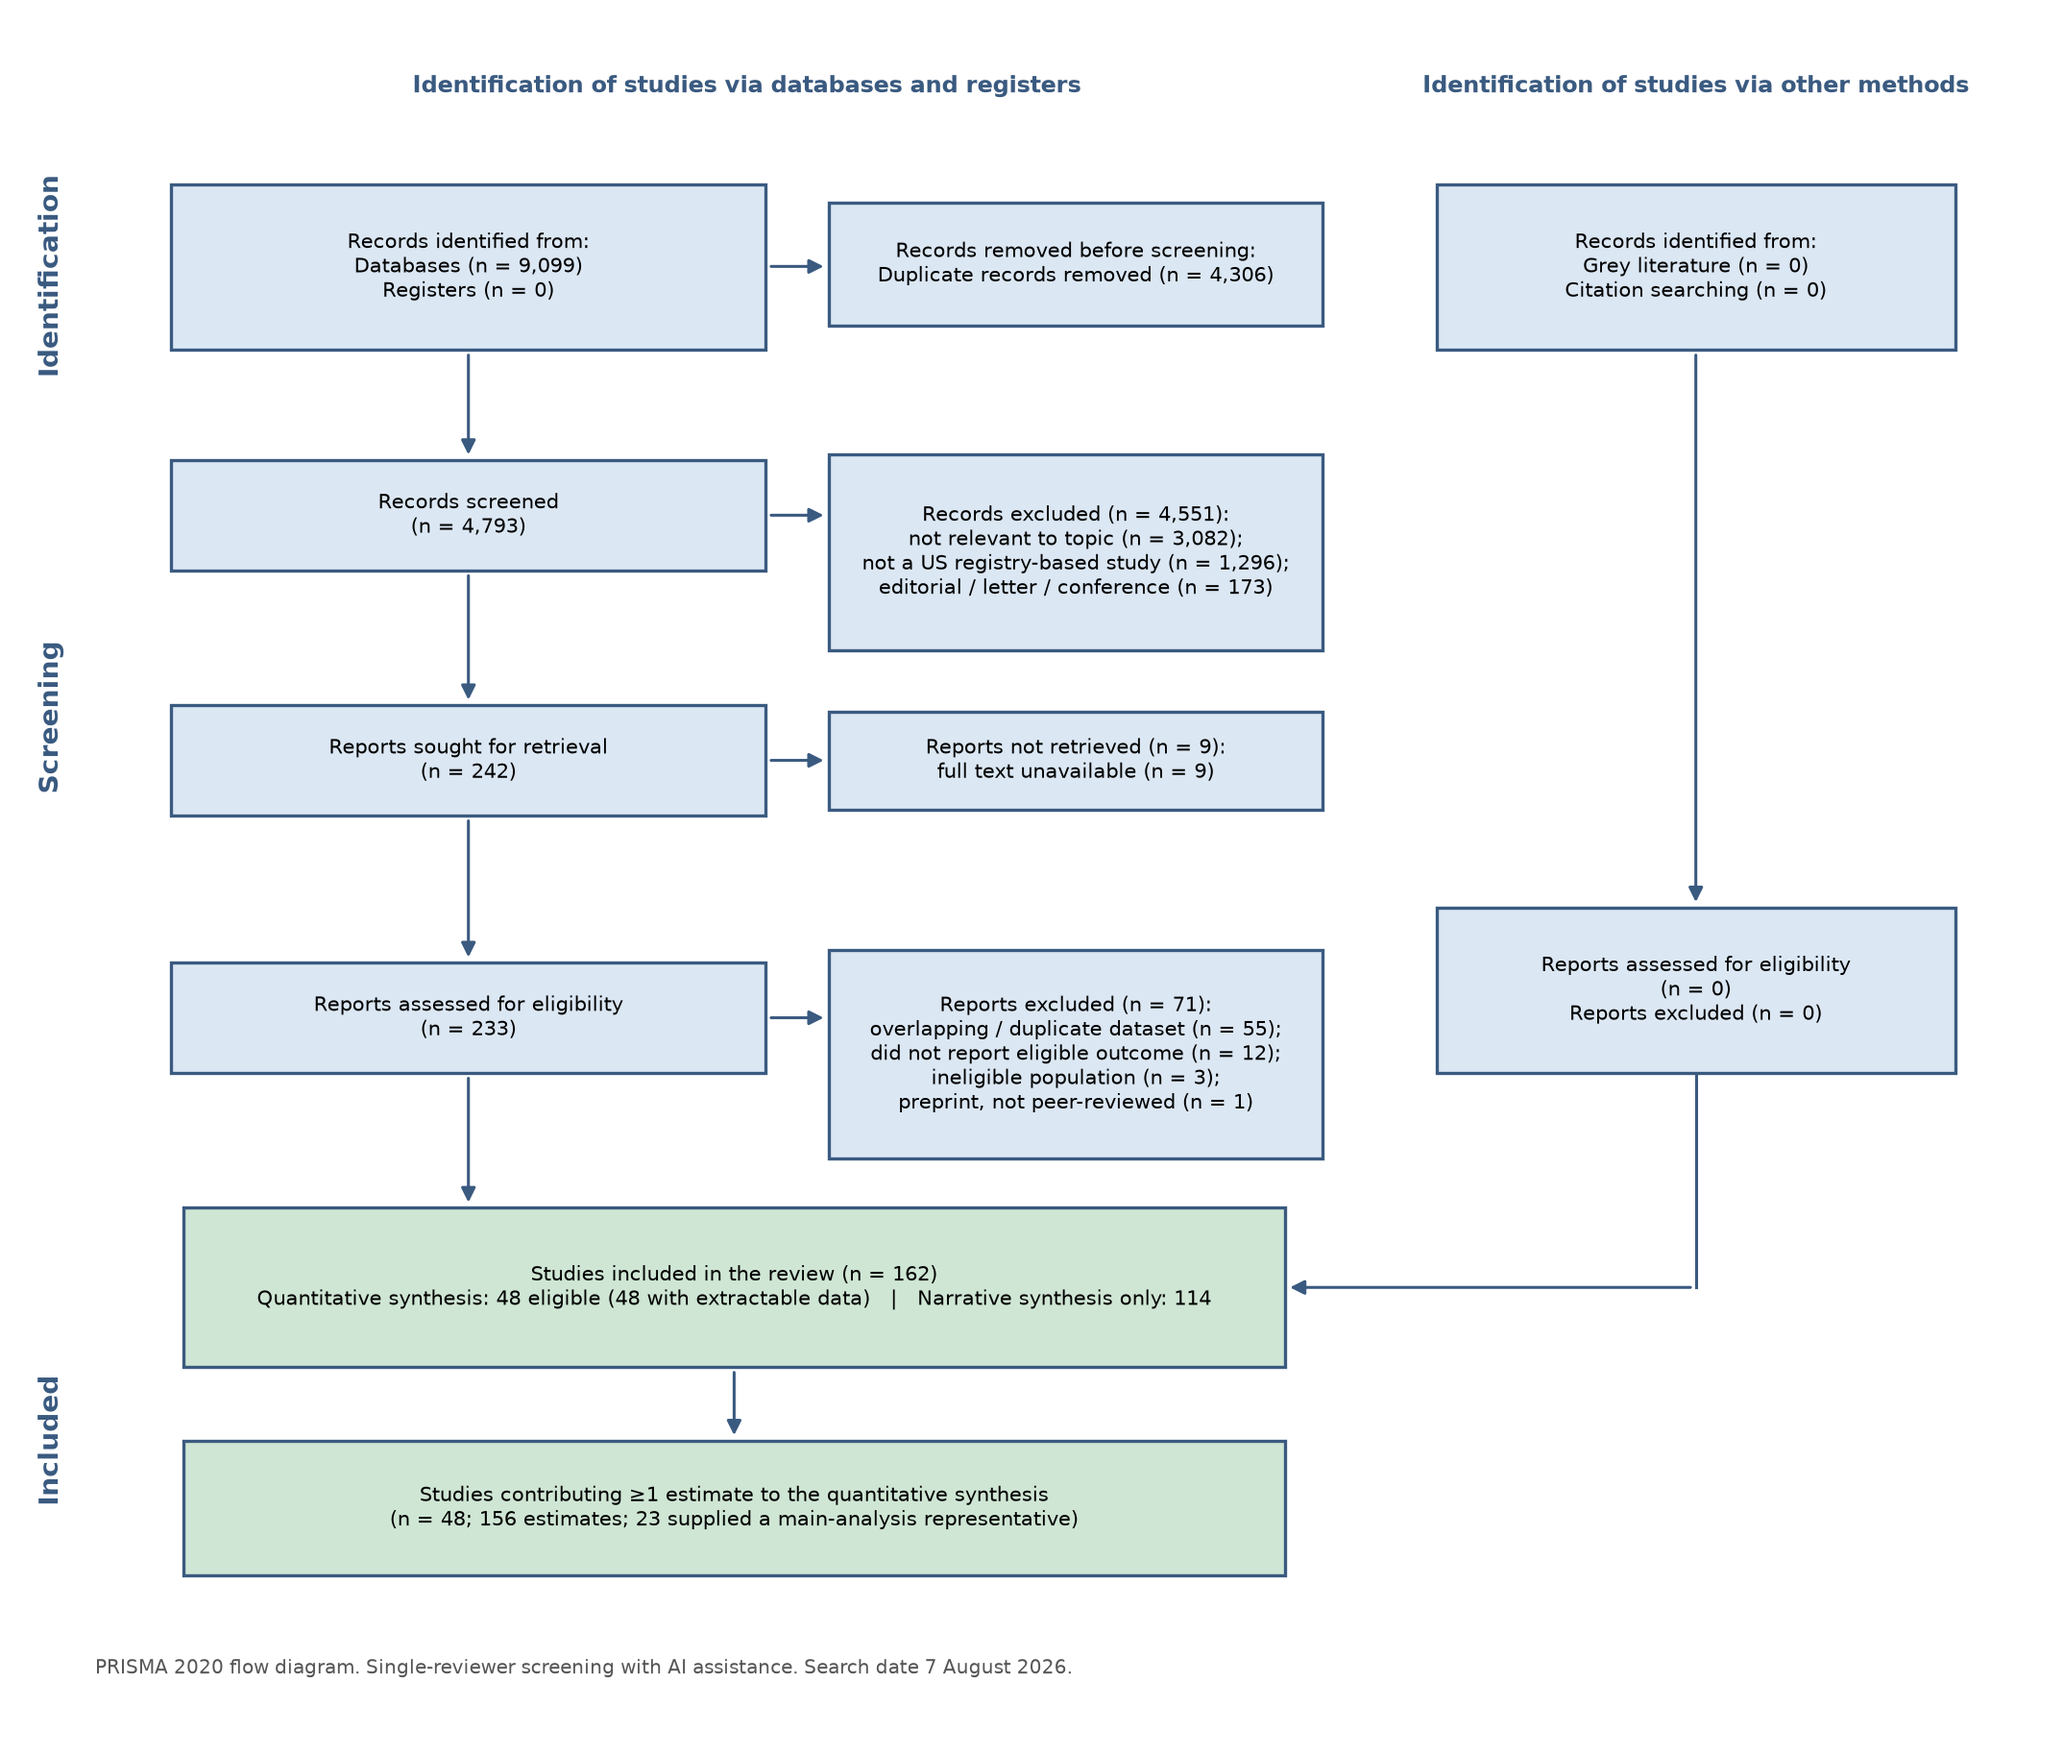
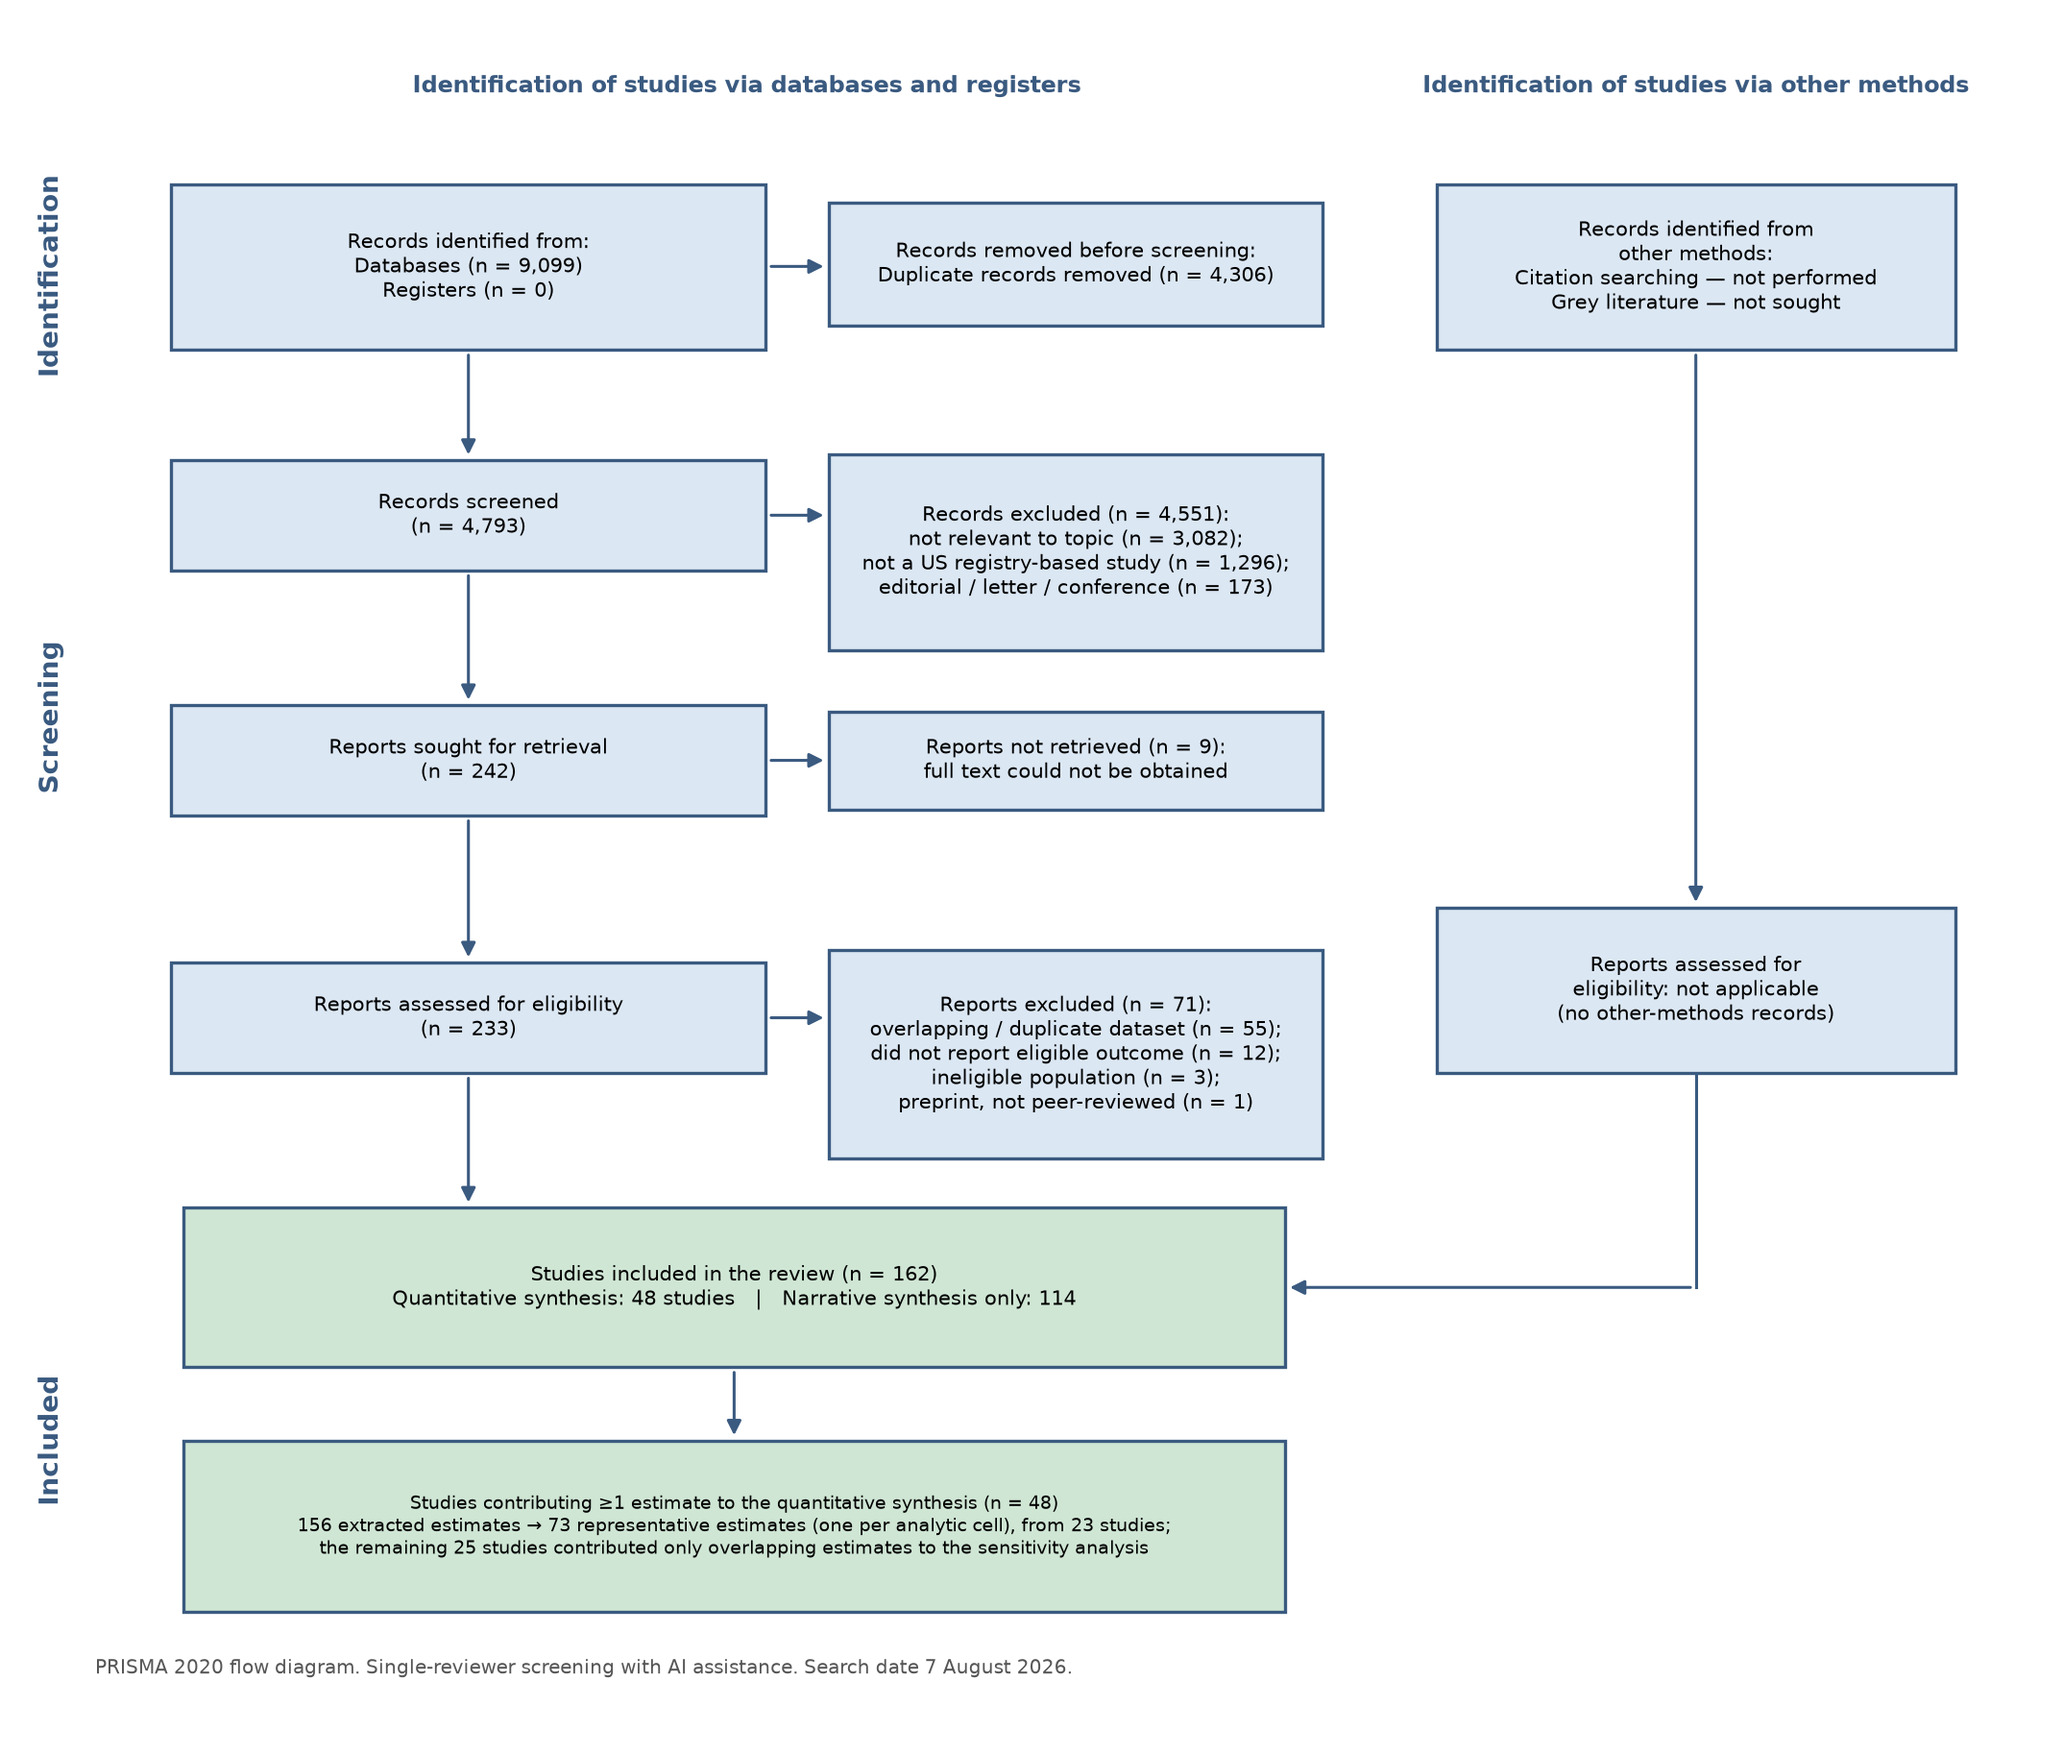
Fix PRISMA flow figure: remove count duplications, clarify representative counts
- Reports not retrieved: drop the duplicated (n = 9) reason line; state
  the reason (full text could not be obtained) without a repeated count.
- Other-methods arm: mark citation searching and grey literature as
  not performed / not sought rather than n = 0, which reads as a search
  that returned zero rather than a method not used.
- Included box: drop the redundant '48 with extractable data' (identical
  to the 48 eligible count).
- Bottom box: show the analytic chain explicitly — 156 extracted
  estimates -> 73 representative estimates (one per analytic cell) from
  23 studies, and name the remaining 25 studies as contributing only
  overlapping estimates to the sensitivity analysis.
- crosscheck_master: update the PRISMA regexes to the new wording and add
  a sens_only canonical count so the 73 and 25 in the figure are verified
  against the data.
- PRISMA_COUNTS.md: mirror the same wording.

Claude-Session: https://claude.ai/code/session_01CuLT4FKRBtsU22Vwfjj2qn

diff --git a/meta_agents/search_v2/crosscheck_master.py b/meta_agents/search_v2/crosscheck_master.py
@@ -246,6 +246,7 @@ def canonical_counts():
                 if r["main_analysis"].startswith("yes")]
     cells = len(rep_rows)
     reps = len(set(r["record_id"] for r in rep_rows))
+    sens_only = studies - reps          # quant studies with no cell representative
     # Risk of bias: JBI overall ratings on the extracted studies
     rob = {"Low": 0, "Moderate": 0, "High": 0}
     if os.path.exists(ROB):
@@ -255,7 +256,7 @@ def canonical_counts():
             "excluded": excluded, "not_retrieved": not_retrieved,
             "excluded_elig": excluded_elig, "assessed": assessed,
             "studies": studies, "estimates": estimates,
-            "cells": cells, "reps": reps,
+            "cells": cells, "reps": reps, "sens_only": sens_only,
             "rob_low": rob["Low"], "rob_moderate": rob["Moderate"],
             "rob_total": rob["Low"] + rob["Moderate"] + rob["High"]}
 
@@ -271,14 +272,16 @@ def check_E():
     # (this is exactly the gap that let "144 estimates / 28 representatives" go stale).
     here_probes = [
         ("prisma_flow.py", r"Studies included in the review \(n = (\d+)\)", "included"),
-        ("prisma_flow.py", r"(\d+) eligible \(\d+ with extractable", "quant"),
-        ("prisma_flow.py", r"\d+ eligible \((\d+) with extractable", "studies"),
+        ("prisma_flow.py", r"Quantitative synthesis: (\d+) studies", "quant"),
+        ("prisma_flow.py", r"quantitative synthesis \(n = (\d+)\)", "studies"),
         ("prisma_flow.py", r"Narrative synthesis only: (\d+)", "narrative"),
         ("prisma_flow.py", r"Reports not retrieved \(n = (\d+)\)", "not_retrieved"),
         ("prisma_flow.py", r"Reports assessed for eligibility\\n\(n = (\d+)\)", "assessed"),
         ("prisma_flow.py", r"Reports excluded \(n = (\d+)\)", "excluded_elig"),
-        ("prisma_flow.py", r"(\d+) estimates;", "estimates"),
-        ("prisma_flow.py", r"estimates; (\d+) supplied a main-analysis", "reps"),
+        ("prisma_flow.py", r"(\d+) extracted estimates", "estimates"),
+        ("prisma_flow.py", r"→ (\d+) representative estimates", "cells"),
+        ("prisma_flow.py", r"estimates \(one per analytic cell\), from (\d+) studies;", "reps"),
+        ("prisma_flow.py", r"the remaining (\d+) studies contributed only", "sens_only"),
         ("outputs/PRISMA_COUNTS.md", r"Reports not retrieved: (\d+)", "not_retrieved"),
         ("outputs/PRISMA_COUNTS.md", r"assessed for eligibility \(full text\): (\d+)", "assessed"),
         ("outputs/PRISMA_COUNTS.md", r"Reports excluded: (\d+)", "excluded_elig"),

diff --git a/meta_agents/search_v2/prisma_flow.py b/meta_agents/search_v2/prisma_flow.py
@@ -64,7 +64,7 @@ def main():
 
     box(ax, lmx, 7.5, lmw, 0.9, "Reports sought for retrieval\n(n = 242)")
     arrow(ax, lmx + lmw / 2, 9.5, lmx + lmw / 2, 8.4)
-    box(ax, lex, 7.55, lew, 0.8, "Reports not retrieved (n = 9):\nfull text unavailable (n = 9)")
+    box(ax, lex, 7.55, lew, 0.8, "Reports not retrieved (n = 9):\nfull text could not be obtained")
     arrow(ax, lmx + lmw, 7.95, lex, 7.95)
 
     box(ax, lmx, 5.4, lmw, 0.9, "Reports assessed for eligibility\n(n = 233)")
@@ -77,26 +77,27 @@ def main():
 
     # ---- right arm (other methods) ----
     box(ax, rmx, 11.3, rmw, 1.35,
-        "Records identified from:\nGrey literature (n = 0)\nCitation searching (n = 0)")
+        "Records identified from\nother methods:\nCitation searching — not performed\nGrey literature — not sought")
     box(ax, rmx, 5.4, rmw, 1.35,
-        "Reports assessed for eligibility\n(n = 0)\nReports excluded (n = 0)")
+        "Reports assessed for\neligibility: not applicable\n(no other-methods records)")
     arrow(ax, rmx + rmw / 2, 11.3, rmx + rmw / 2, 6.75)
 
     # ---- included (spans left arm) ----
     incx, incw = 1.3, 8.7
     box(ax, incx, 3.0, incw, 1.3,
         "Studies included in the review (n = 162)\n"
-        "Quantitative synthesis: 48 eligible (48 with extractable data)   |   Narrative synthesis only: 114",
+        "Quantitative synthesis: 48 studies   |   Narrative synthesis only: 114",
         fc="#cfe6d4")
     arrow(ax, lmx + lmw / 2, 5.4, lmx + lmw / 2, 4.3)
     # right arm merges into included
     line(ax, rmx + rmw / 2, 5.4, rmx + rmw / 2, 3.65)
     arrow(ax, rmx + rmw / 2, 3.65, incx + incw, 3.65)
 
-    box(ax, incx, 1.3, incw, 1.1,
-        "Studies contributing ≥1 estimate to the quantitative synthesis\n"
-        "(n = 48; 156 estimates; 23 supplied a main-analysis representative)",
-        fc="#cfe6d4")
+    box(ax, incx, 1.0, incw, 1.4,
+        "Studies contributing ≥1 estimate to the quantitative synthesis (n = 48)\n"
+        "156 extracted estimates → 73 representative estimates (one per analytic cell), from 23 studies;\n"
+        "the remaining 25 studies contributed only overlapping estimates to the sensitivity analysis",
+        fc="#cfe6d4", fs=7.0)
     arrow(ax, incx + incw / 2, 3.0, incx + incw / 2, 2.4)
 
     ax.text(0.6, 0.5, "PRISMA 2020 flow diagram. Single-reviewer screening with "

diff --git a/meta_agents/search_v2/outputs/PRISMA_COUNTS.md b/meta_agents/search_v2/outputs/PRISMA_COUNTS.md
@@ -23,7 +23,7 @@
 
 ## Included
 - Studies included in review: 162
-  - Quantitative synthesis: 48 eligible → all 48 with extractable data
+  - Quantitative synthesis: 48 studies (all eligible studies contributed extractable estimates)
     (23 supplied a cell representative; the other 25 contributed overlapping estimates carried
     only in the sensitivity analysis — e.g. 236 CCR Asian subgroups; 4027 eight-state SEER+NPCR
     Asian subgroups; 461 Northern-Plains AI/AN [unlinked state registries, AI/AN-undercount];
@@ -39,4 +39,6 @@
 - Report Embase as "Advanced Search, n = 3,248"; report PubMed/MEDLINE as one
   source (not two).
 - The 48 extracted studies contributed 156 estimates; 23 studies supplied at
-  least one main-analysis representative.
+  least one main-analysis representative (73 representative estimates in all, one per analytic
+  cell), and the remaining 25 studies contributed only overlapping estimates carried in the
+  sensitivity analysis.
